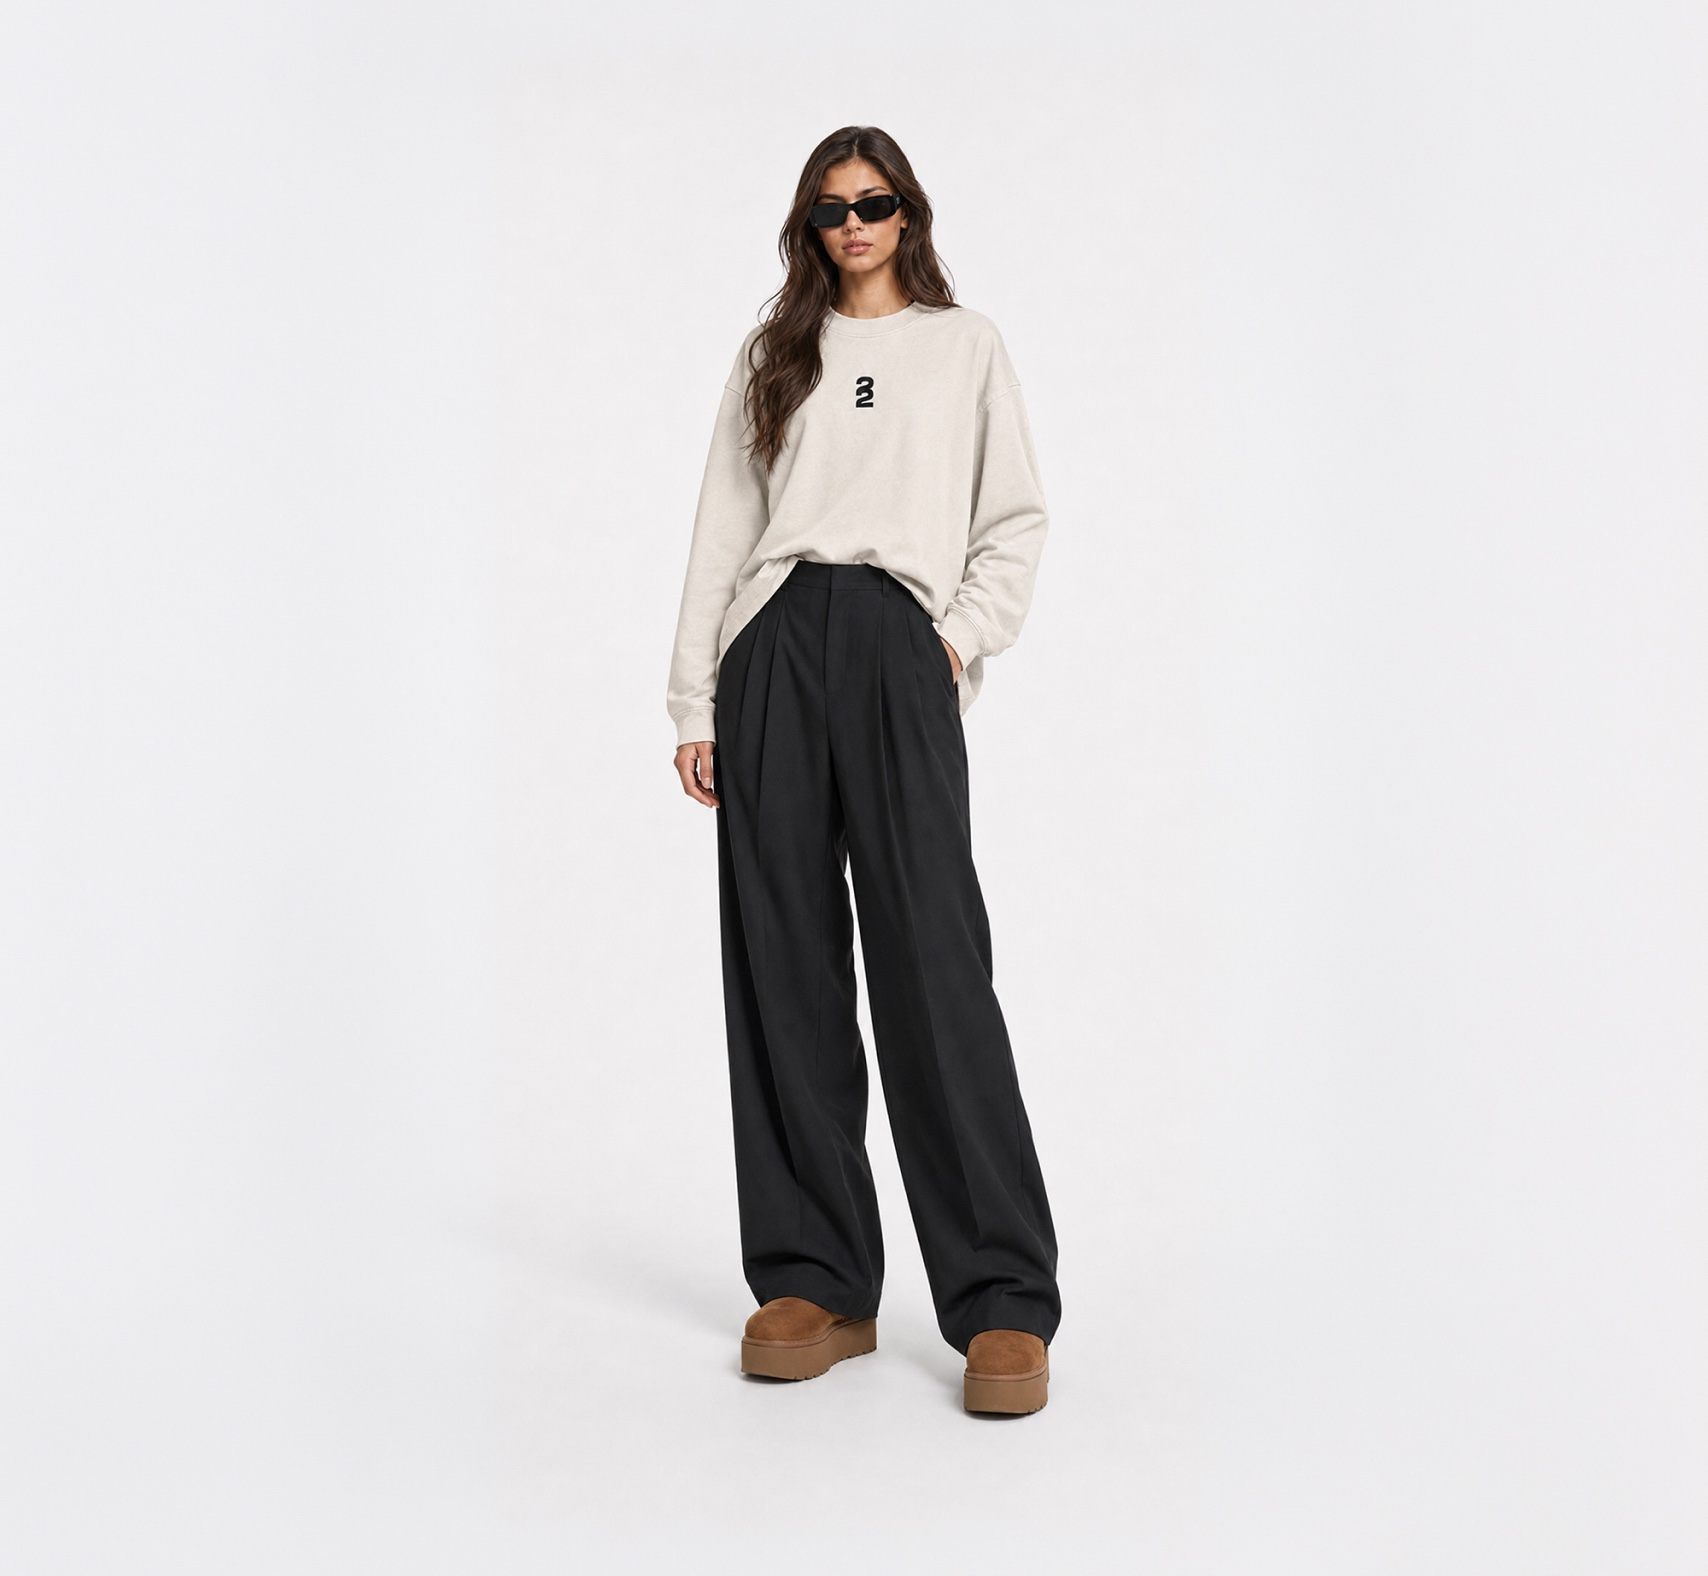
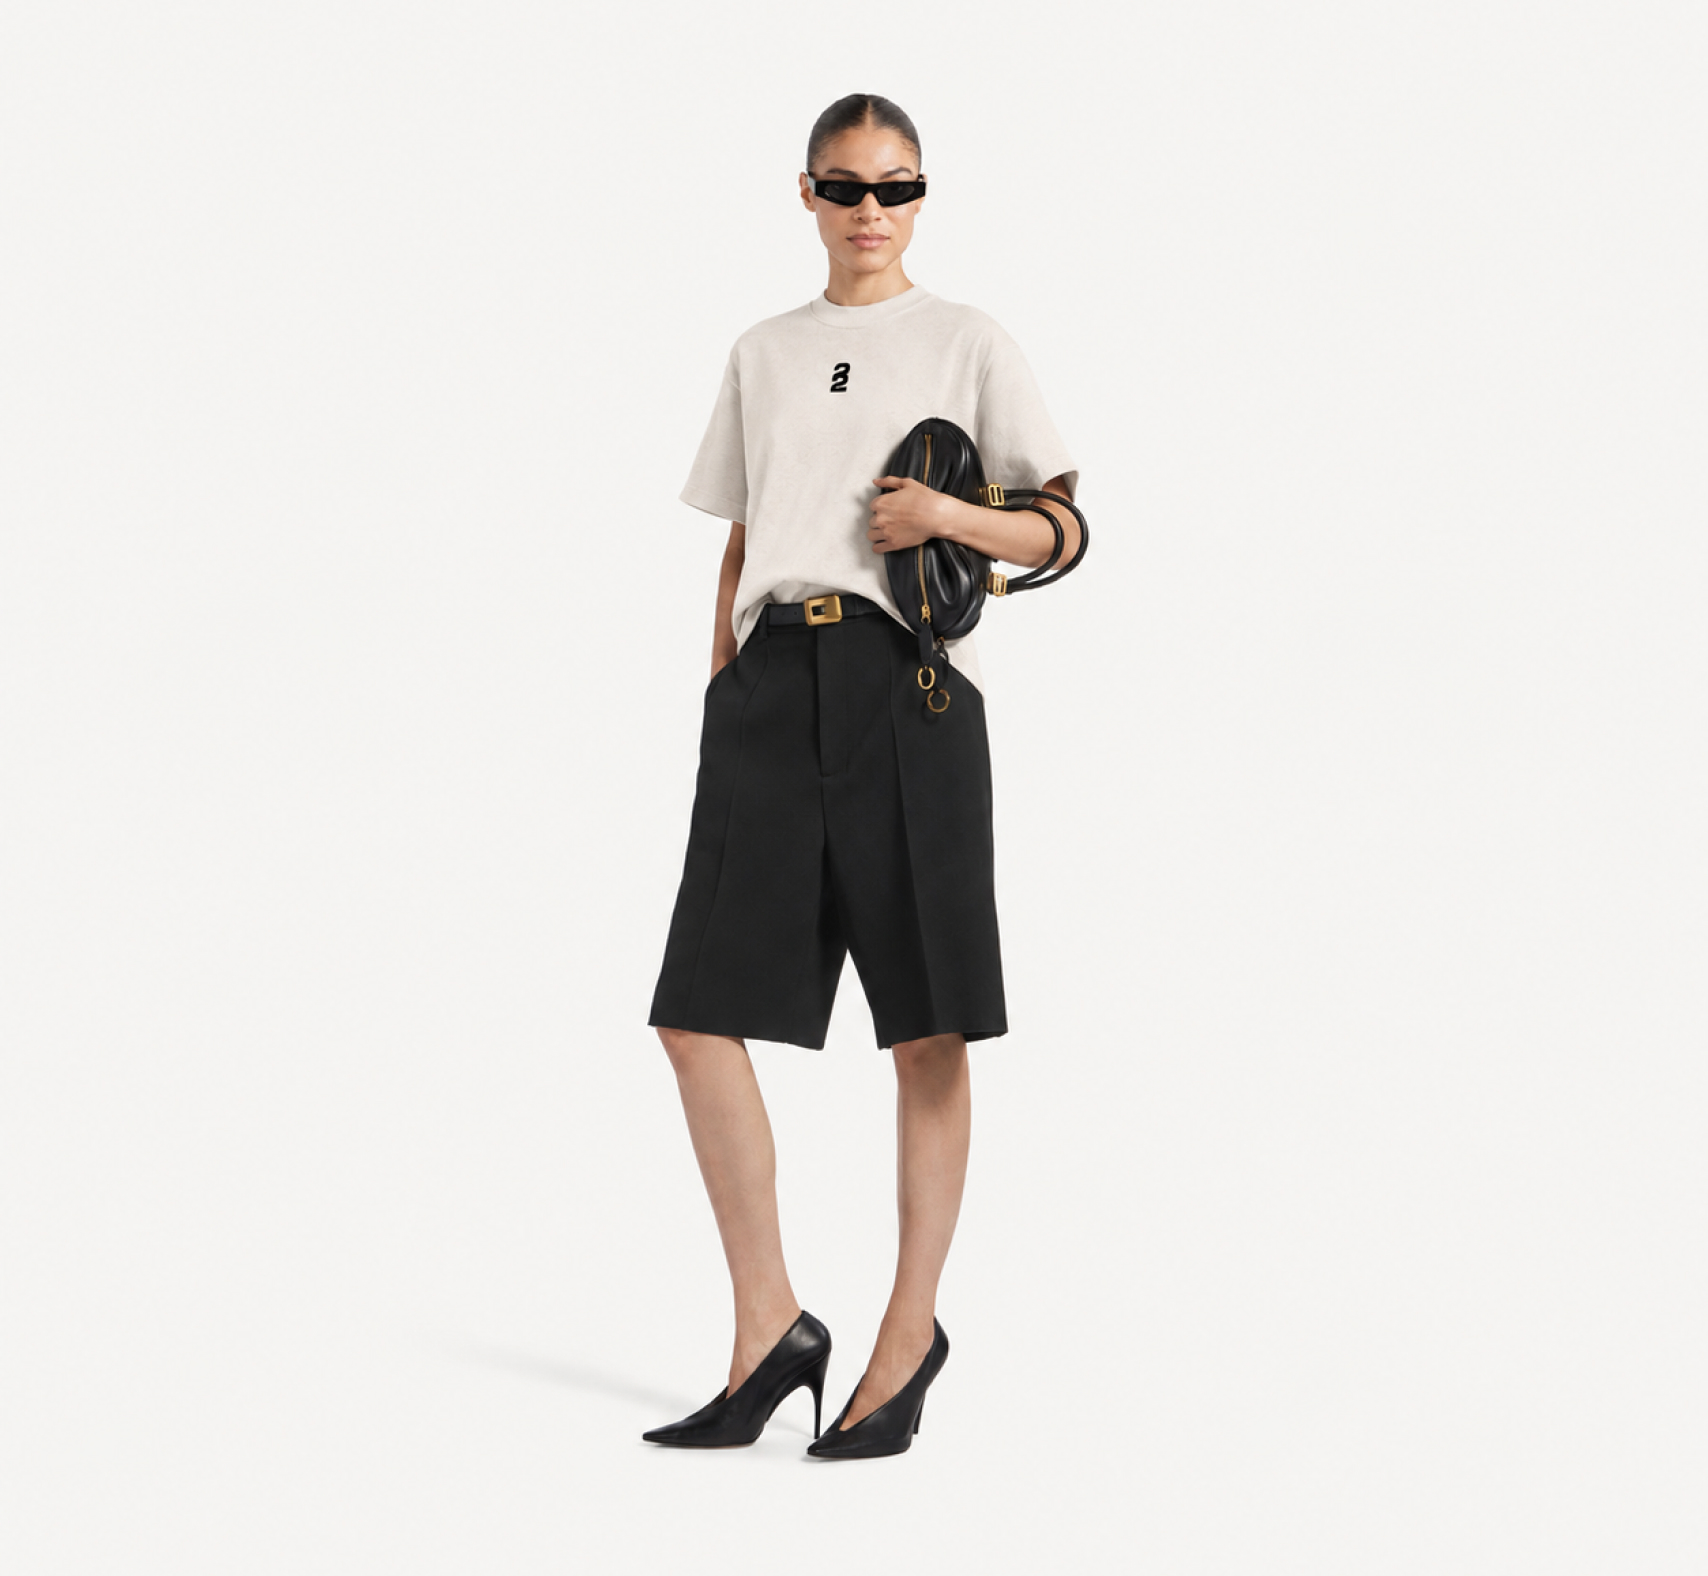
feat(capsule): per-viewport Coming Soon WOMENS image (desktop + mobile)
Split the WOMENS teaser into distinct Figma exports served by breakpoint:
desktop 301-829 (854x788) via coming-soon-womens.jpg, mobile 301-830
(375x333) via new coming-soon-womens-mobile.jpg. The <picture> media query
(max-width:860px) serves each only at its own breakpoint; neither is used
as a substitute for the other. MENS images, marquee, 44s speed, foreground
PNG and layering are untouched.

Also update the stale mobile-marquee UI test to assert the shipped centred
design (top:25% + translateY(-50%)) from the prior approved change.

Claude-Session: https://claude.ai/code/session_01H82PN7xWF7r652VjU9QgZJ

Changed region(s): [[0.3724, 0.0622, 0.6516, 0.9327], [0.4655, 0.4975, 0.4965, 0.5286]]

diff --git a/src/components/capsule/CapsuleLandingView.tsx b/src/components/capsule/CapsuleLandingView.tsx
@@ -49,19 +49,25 @@ export default function CapsuleLandingView({
           // MOBILE-ONLY exception: the MENS teaser swaps in a SQUARE base (Figma
           // 296-813) that is pixel-registered with the transparent cutout below, so
           // the two crop identically under object-fit:cover. Desktop keeps `mens`.
+          // WOMENS teaser: desktop (854×788) and mobile (375×333) are DISTINCT Figma
+          // exports (301-829 / 301-830), never interchangeable — the <picture> media
+          // serves each only at its own breakpoint.
+          const womensComingSoon = comingSoon && audience === "womens";
           const desktopSrc = comingSoon ? CAPSULE_COMING_SOON[audience] : side.image;
           const mobileSrc = mensLayered
             ? CAPSULE_COMING_SOON.mensMobileBase
-            : comingSoon
-              ? CAPSULE_COMING_SOON[audience]
-              : side.imageMobile;
+            : womensComingSoon
+              ? CAPSULE_COMING_SOON.womensMobile
+              : comingSoon
+                ? CAPSULE_COMING_SOON[audience]
+                : side.imageMobile;
           const picture = (
             <picture>
               <source
                 media="(max-width: 860px)"
                 srcSet={mobileSrc}
-                width={mensLayered ? 1200 : comingSoon ? 854 : 375}
-                height={mensLayered ? 1200 : comingSoon ? 788 : 333}
+                width={mensLayered ? 1200 : womensComingSoon ? 375 : comingSoon ? 854 : 375}
+                height={mensLayered ? 1200 : womensComingSoon ? 333 : comingSoon ? 788 : 333}
               />
               <img
                 className={styles.landingImg}

diff --git a/src/data/capsule.ts b/src/data/capsule.ts
@@ -94,6 +94,7 @@ export const CAPSULE_LANDING = catalog.CAPSULE_LANDING as CapsuleLanding;
 export const CAPSULE_COMING_SOON = catalog.CAPSULE_COMING_SOON as {
   mens: string;
   womens: string;
+  womensMobile: string;
   mensMobileBase: string;
   mensMobileCutout: string;
 };
